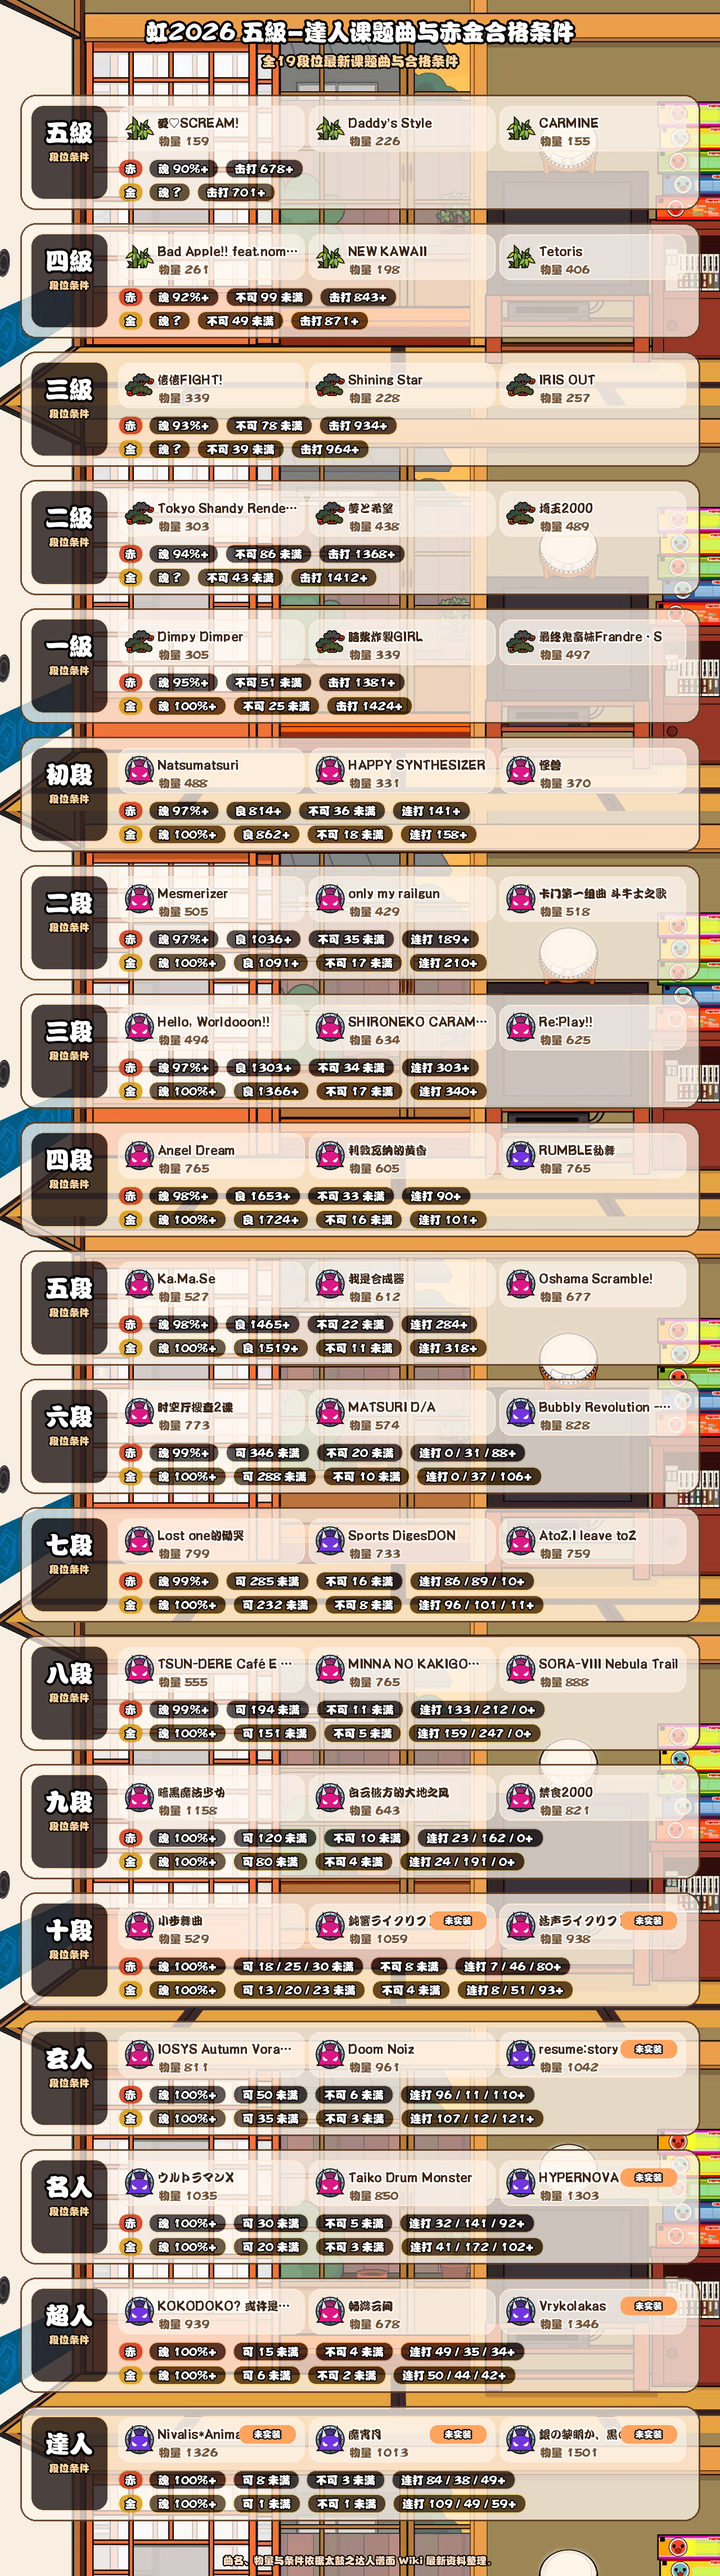
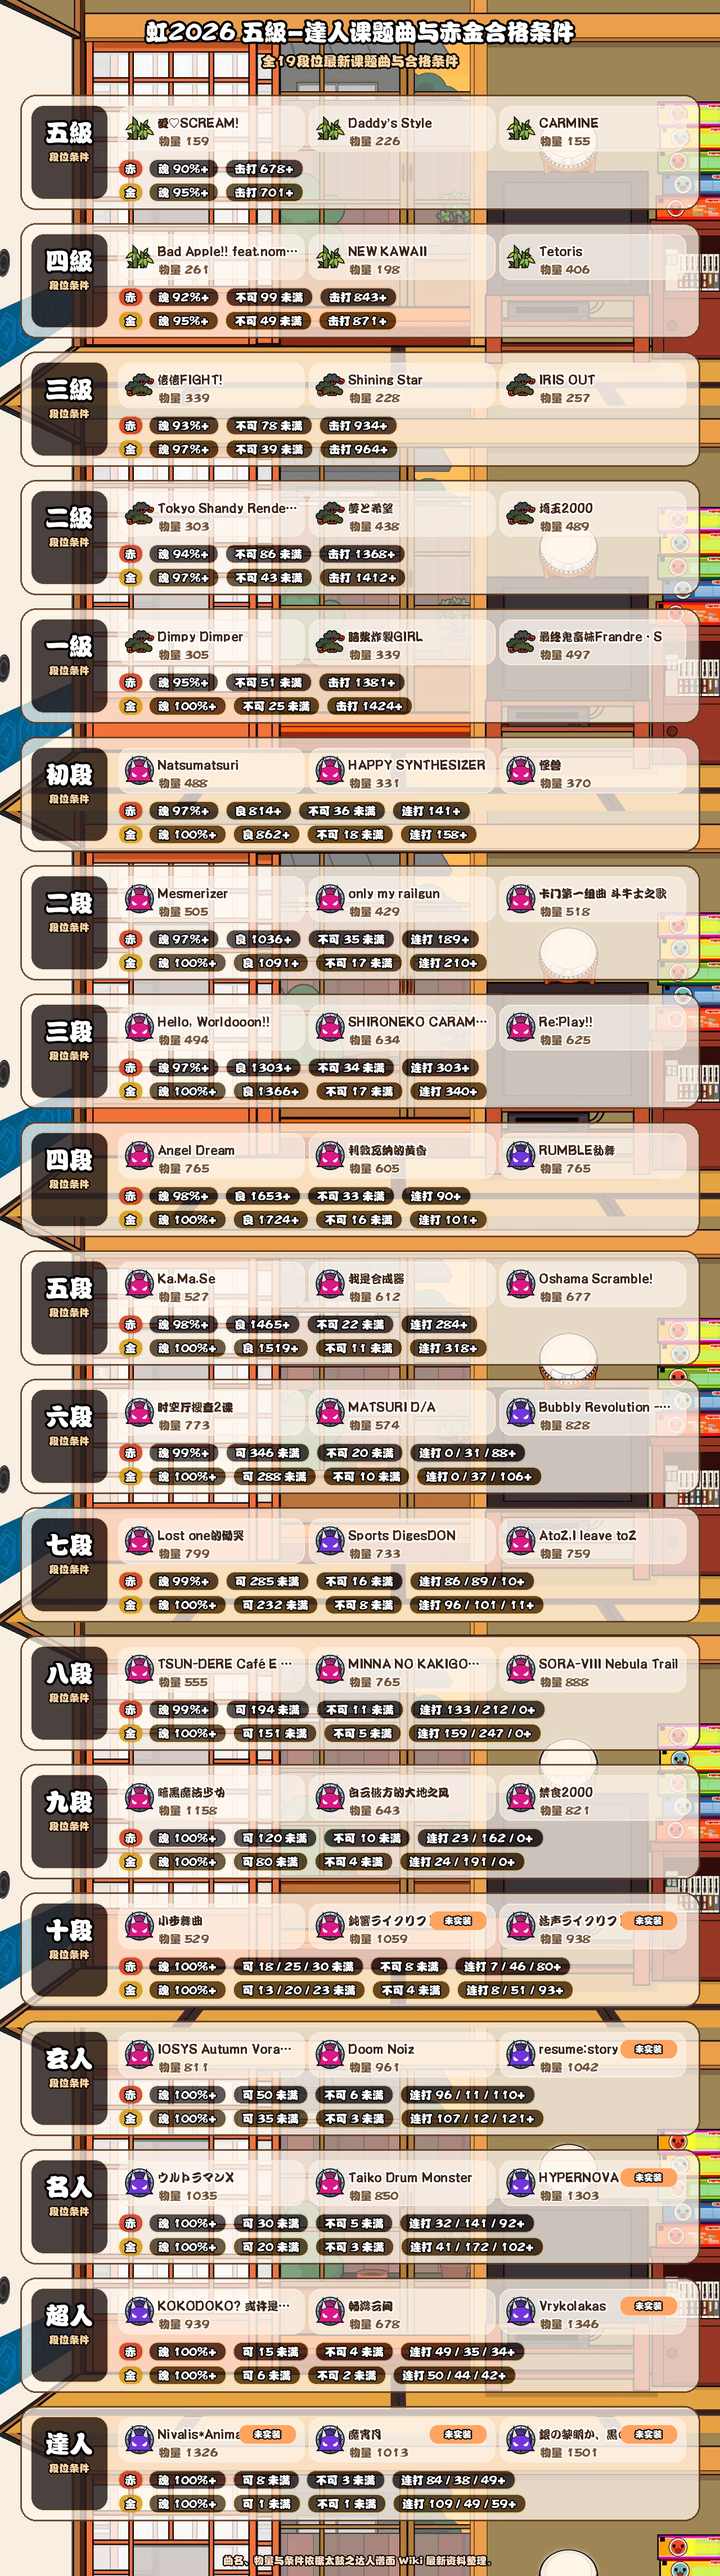
0.68.7 修正虹2026魂槽条件并新增完整图入口

Changed region(s): [[0.25, 0.0931, 0.5625, 0.1863], [0.25, 0.2173, 0.5625, 0.2484], [0.25, 0.0621, 0.4375, 0.0931]]

diff --git a/taiko_viewer/components/home/HomeDanSummary.vue b/taiko_viewer/components/home/HomeDanSummary.vue
@@ -11,25 +11,41 @@ const localePath = useLocalePath();
       <span>NIJIIRO 2026</span>
       <h2 id="guest-dan-title">{{ t("page.home.guest.danTitle") }}</h2>
       <p>{{ t("page.home.guest.danDescription") }}</p>
-      <NuxtLink
-        :to="localePath('/grade/2026')"
-        class="guest-dan__link"
-        @click="trackViewerEvent('home_dan_click', { home_state: 'guest', source: 'dan_summary' })"
-      >
-        {{ t("page.home.guest.danCta") }}
-      </NuxtLink>
+      <div class="guest-dan__actions">
+        <NuxtLink
+          :to="localePath('/grade/2026')"
+          class="guest-dan__link"
+          @click="trackViewerEvent('home_dan_click', { home_state: 'guest', source: 'dan_summary' })"
+        >
+          {{ t("page.home.guest.danCta") }}
+        </NuxtLink>
+        <NuxtLink
+          to="/nijiiro_2026_dan_overview.png"
+          external
+          target="_blank"
+          rel="noopener"
+          class="guest-dan__overview-link"
+          :aria-label="t('page.home.guest.danOverviewAria')"
+          @click="trackViewerEvent('home_dan_overview_click', { home_state: 'guest', source: 'dan_summary' })"
+        >
+          {{ t("page.home.guest.danOverviewCta") }}
+        </NuxtLink>
+      </div>
     </div>
     <NuxtLink
-      :to="localePath('/grade/2026')"
+      to="/nijiiro_2026_dan_overview.png"
+      external
+      target="_blank"
+      rel="noopener"
       class="guest-dan__visual"
-      :aria-label="t('page.home.guest.danCta')"
-      @click="trackViewerEvent('home_dan_click', { home_state: 'guest', source: 'dan_visual' })"
+      :aria-label="t('page.home.guest.danOverviewAria')"
+      @click="trackViewerEvent('home_dan_overview_click', { home_state: 'guest', source: 'dan_visual' })"
     >
       <img
         src="/optimized/nijiiro-2026-640.webp"
         :alt="t('page.home.guest.danImageAlt')"
         width="640"
-        height="1831"
+        height="2287"
         loading="lazy"
         decoding="async"
       />
@@ -90,6 +106,23 @@ const localePath = useLocalePath();
   font-weight: 700;
 }
 
+.guest-dan__actions {
+  display: flex;
+  flex-wrap: wrap;
+  align-items: center;
+  gap: 8px 14px;
+}
+
+.guest-dan__overview-link {
+  min-height: 44px;
+  display: inline-flex;
+  align-items: center;
+  color: #8c4d31;
+  text-underline-offset: 3px;
+  font-size: 13px;
+  font-weight: 700;
+}
+
 .guest-dan__visual {
   height: 280px;
   display: block;
@@ -108,6 +141,7 @@ const localePath = useLocalePath();
 }
 
 .guest-dan__link:focus-visible,
+.guest-dan__overview-link:focus-visible,
 .guest-dan__visual:focus-visible {
   outline: 3px solid #a85f3e;
   outline-offset: 3px;
@@ -123,6 +157,10 @@ const localePath = useLocalePath();
 :global(body.theme-dark .guest-dan__visual) {
   border-color: rgba(255, 255, 255, 0.12);
   background: #241e1a;
+}
+
+:global(body.theme-dark .guest-dan__overview-link) {
+  color: #f0b28f;
 }
 
 @media (max-width: 720px) {

diff --git a/taiko_viewer/scripts/sync_nijiiro_2026_grade_dojo.py b/taiko_viewer/scripts/sync_nijiiro_2026_grade_dojo.py
@@ -63,6 +63,13 @@ DAN_SLUGS = {
     "超人",
     "達人",
 }
+GOLD_SOUL_GAUGE_BY_GRADE = {
+    "五級": 95,
+    "四級": 95,
+    "三級": 97,
+    "二級": 97,
+    "一級": 100,
+}
 
 REMOVE_SELECTORS = [
     "script",
@@ -487,10 +494,12 @@ def build_condition_payload(rows: List[Dict[str, Any]]) -> Dict[str, Any]:
 def resolved_gold_conditions(slug: str, pass_cond: Dict[str, Any], gold_cond: Dict[str, Any]) -> Dict[str, Any]:
     resolved = dict(gold_cond)
 
-    if slug in DAN_SLUGS and resolved.get("soulGaugePercent") is None:
-        resolved["soulGaugePercent"] = 100
-    if slug == "一級" and resolved.get("soulGaugePercent") is None:
-        resolved["soulGaugePercent"] = 100
+    if resolved.get("soulGaugePercent") is None:
+        known_gold_gauge = GOLD_SOUL_GAUGE_BY_GRADE.get(slug)
+        if known_gold_gauge is not None:
+            resolved["soulGaugePercent"] = known_gold_gauge
+        elif slug in DAN_SLUGS:
+            resolved["soulGaugePercent"] = 100
 
     pass_bad = pass_cond.get("badCountLessThan")
     if resolved.get("badCountLessThan") is None and isinstance(pass_bad, int) and pass_bad > 0:
